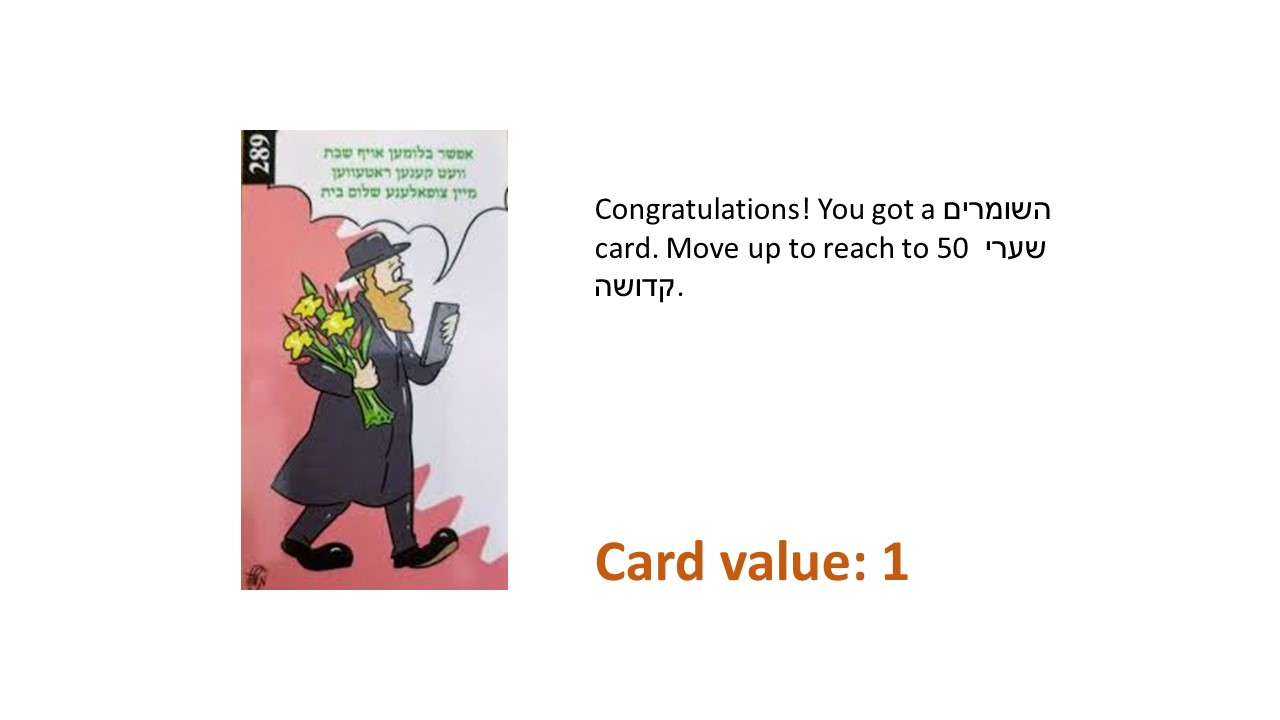
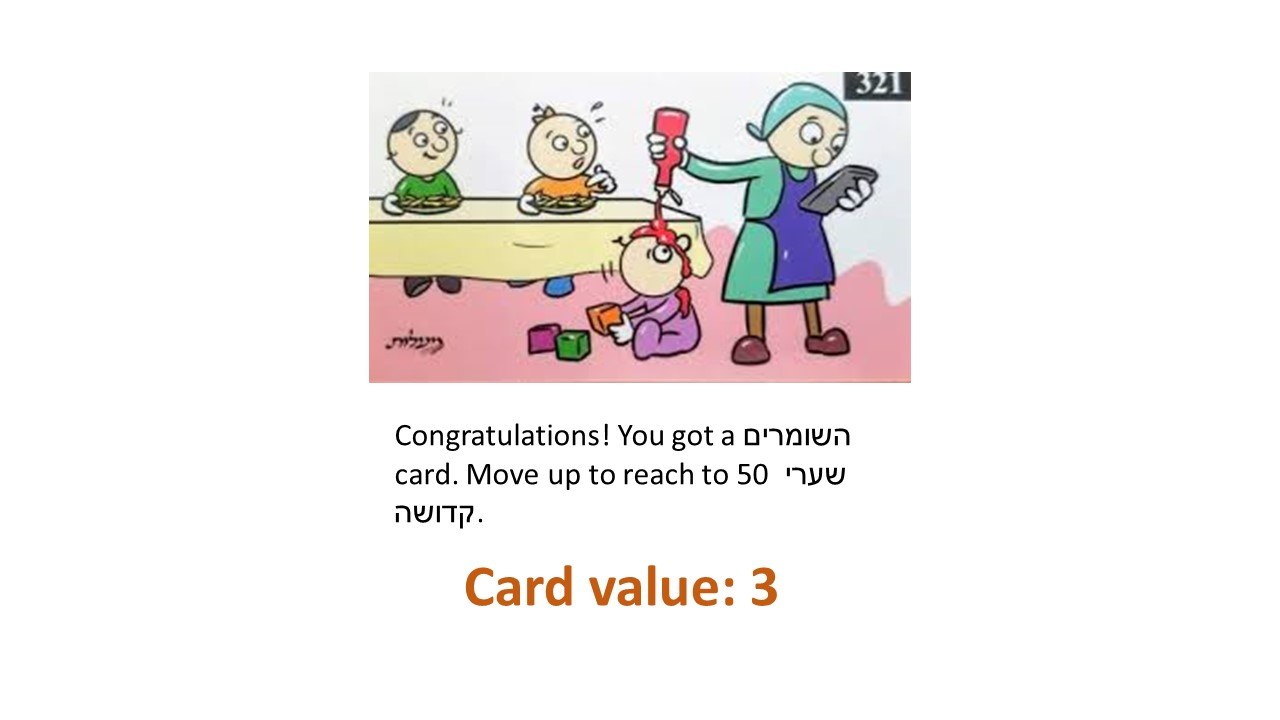
Added more cards

Changed region(s): [[0.1875, 0.0917, 0.8125, 0.8556]]

diff --git a/BeatTheStormApp/BeatTheStormApp/frmBeatTheStorm.cs b/BeatTheStormApp/BeatTheStormApp/frmBeatTheStorm.cs
@@ -26,12 +26,14 @@ namespace BeatTheStormApp
         List<RadioButton> optbtns = new();
         //List<string> lstcards;
         List<Dictionary<string, string>> dctcards;
+        bool checkedhandled = false;
         public frmBeatTheStorm()
         {
             InitializeComponent();
             btnStart.Click += BtnStart_Click;
             lblDiceValCurrent.Click += LblDiceValCurrent_Click;
             btnHelp.Click += BtnHelp_Click;
+            btnRestart.Click += BtnRestart_Click;
             foreach (Control c in tblMain.Controls)
             {
                 foreach (Control ctrl in c.Controls)
@@ -71,27 +73,59 @@ namespace BeatTheStormApp
             //    "Hashomrim9",
             //    "Hashomrim10"
             //};
-            dctcards = new() { 
+            dctcards = new() {
                 new() { { "Name", "Facebook" }, { "Value", "5" } },
                 new() { { "Name", "Instagram" }, { "Value", "5" } },
                 new() { { "Name", "Twitter" }, { "Value", "5" } },
+                new() { { "Name", "Tiktok" }, { "Value", "5" } },
+                new() { { "Name", "Netflix" }, { "Value", "5" } },
+                new() { { "Name", "Twitch" }, { "Value", "5" } },
+                new() { { "Name", "Vimeo" }, { "Value", "5" } },
                 new() { { "Name", "Whatsapp" }, { "Value", "4" } },
+                new() { { "Name", "Linkedin" }, { "Value", "4" } },
                 new() { { "Name", "YouTube" }, { "Value", "3" } },
+                new() { { "Name", "Roblox" }, { "Value", "3" } },
+                new() { { "Name", "Skype" }, { "Value", "3" } },
+                new() { { "Name", "Steam" }, { "Value", "3" } },
+                new() { { "Name", "Telegram" }, { "Value", "3" } },
                 new() { { "Name", "Pinterest" }, { "Value", "3" } },
+                new() { { "Name", "Googleplay" }, { "Value", "3" } },
+                new() { { "Name", "Zoom" }, { "Value", "3" } },
                 new() { { "Name", "Bing" }, { "Value", "2" } },
                 new() { { "Name", "Google" }, { "Value", "2" } },
+                new() { { "Name", "Bbcnews" }, { "Value", "2" } },
+                new() { { "Name", "Nytimes" }, { "Value", "2" } },
                 new() { { "Name", "Gmail" }, { "Value", "1" } },
                 new() { { "Name", "Slack" }, { "Value", "1" } },
+                new() { { "Name", "Yahoomail" }, { "Value", "1" } },
+                new() { { "Name", "Outlook" }, { "Value", "1" } },
+                new() { { "Name", "Aolmail" }, { "Value", "1" } },
                 new() { { "Name", "Hashomrim1" }, { "Value", "5" } },
                 new() { { "Name", "Hashomrim2" }, { "Value", "5" } },
-                new() { { "Name", "Hashomrim3" }, { "Value", "4" } },
-                new() { { "Name", "Hashomrim4" }, { "Value", "3" } },
-                new() { { "Name", "Hashomrim5" }, { "Value", "3" } },
-                new() { { "Name", "Hashomrim6" }, { "Value", "2" } },
-                new() { { "Name", "Hashomrim7" }, { "Value", "2" } },
-                new() { { "Name", "Hashomrim8" }, { "Value", "2" } },
-                new() { { "Name", "Hashomrim9" }, { "Value", "1" } },
-                new() { { "Name", "Hashomrim10" }, { "Value", "1" } },
+                new() { { "Name", "Hashomrim3" }, { "Value", "5" } },
+                new() { { "Name", "Hashomrim4" }, { "Value", "5" } },
+                new() { { "Name", "Hashomrim5" }, { "Value", "5" } },
+                new() { { "Name", "Hashomrim6" }, { "Value", "5" } },
+                new() { { "Name", "Hashomrim7" }, { "Value", "4" } },
+                new() { { "Name", "Hashomrim8" }, { "Value", "4" } },
+                new() { { "Name", "Hashomrim9" }, { "Value", "3" } },
+                new() { { "Name", "Hashomrim10" }, { "Value", "3" } },
+                new() { { "Name", "Hashomrim11" }, { "Value", "3" } },
+                new() { { "Name", "Hashomrim12" }, { "Value", "3" } },
+                new() { { "Name", "Hashomrim13" }, { "Value", "3" } },
+                new() { { "Name", "Hashomrim14" }, { "Value", "3" } },
+                new() { { "Name", "Hashomrim15" }, { "Value", "3" } },
+                new() { { "Name", "Hashomrim16" }, { "Value", "3" } },
+                new() { { "Name", "Hashomrim17" }, { "Value", "2" } },
+                new() { { "Name", "Hashomrim18" }, { "Value", "2" } },
+                new() { { "Name", "Hashomrim19" }, { "Value", "2" } },
+                new() { { "Name", "Hashomrim20" }, { "Value", "2" } },
+                new() { { "Name", "Hashomrim21" }, { "Value", "1" } },
+                new() { { "Name", "Hashomrim22" }, { "Value", "1" } },
+                new() { { "Name", "Hashomrim23" }, { "Value", "1" } },
+                new() { { "Name", "Hashomrim24" }, { "Value", "1" } },
+                new() { { "Name", "Hashomrim25" }, { "Value", "1" } },
+                new() { { "Name", "Hashomrim26" }, { "Value", "1" } },
             };
         }
 
@@ -162,7 +196,7 @@ namespace BeatTheStormApp
                         });
                         if (!lblspots.Any(l => l.Name == newspot))
                         {
-                            if (d > 101 && d < 106 && lbl.Name != "lblSpot101")
+                            if (d > 101 && d <= 106 && lbl.Name != "lblSpot101")
                             {
                                 lblSpot101.Text += currentplayer.ToString();
                                 lbl.Text = lbl.Text.Replace(currentplayer.ToString(), "");
@@ -186,7 +220,7 @@ namespace BeatTheStormApp
                     }
                 }
             }
-            if (playermode == PlayerModeEnum.PlayAgainstComputer && player == PlayerEnum.A)
+            if (playermode == PlayerModeEnum.PlayAgainstComputer && player == PlayerEnum.A && gamestatus == GameStatusEnum.Playing)
             {
                 DoTurn();
             }
@@ -212,11 +246,35 @@ namespace BeatTheStormApp
 
         private void Opt_CheckedChanged(object? sender, EventArgs e)
         {
-            if (sender != null && gamestatus != GameStatusEnum.NotStarted)
+            if (sender != null && gamestatus == GameStatusEnum.Playing && !checkedhandled)
             {
                 RadioButton o = (RadioButton)sender;
                 o.Checked = false;
+                checkedhandled = true;
+                switch (gamemode)
+                {
+                    case GameModeEnum.DiceWithRandomCard:
+                        optModeDiceWithRandomCard.Checked = true;
+                        break;
+                    case GameModeEnum.CardOnly:
+                        optModeCardOnly.Checked = true;
+                        break;
+                    default:
+                        break;
+                }
+                switch (playermode)
+                {
+                    case PlayerModeEnum.TwoPlayers:
+                        optMultiplePlayers.Checked = true;
+                        break;
+                    case PlayerModeEnum.PlayAgainstComputer:
+                        optPlayComputer.Checked = true;
+                        break;
+                    default:
+                        break;
+                }
             }
+            checkedhandled = false;
         }
 
         private void LblDiceValCurrent_Click(object? sender, EventArgs e)
@@ -226,12 +284,22 @@ namespace BeatTheStormApp
 
         private void BtnHelp_Click(object? sender, EventArgs e)
         {
-            Form frmhelp = new();
-            TableLayoutPanel tblhelp = new() { Dock = DockStyle.Fill, ColumnCount = 1, RowCount = 1 };
-            Label lblhelp = new() { Dock = DockStyle.Fill, BackColor = Color.Aqua };
-            tblhelp.Controls.Add(lblhelp);
-            frmhelp.Controls.Add(tblhelp);
-            frmhelp.Show();
+            WebBrowser browser = new();
+            string str = Application.StartupPath + @"Images\Spec_for_Beat_the_Storm.pdf";
+            Uri uri = new(str);
+            browser.Navigate(uri, true);
+        }
+
+        private void BtnRestart_Click(object? sender, EventArgs e)
+        {
+            lblStatus.Text = "Choose playing mode and click start";
+            lblspots.ForEach(l => l.Text = "");
+            lblSpot51.Text = "AB";
+            gamestatus = GameStatusEnum.NotStarted;
+            lblDiceValCurrent.Text = "";
+            picCardCurrent.ImageLocation = null;
+            lblDiceValPrevious.Text = "";
+            picCardPrevious.ImageLocation = null;
         }
     }
 }

diff --git a/BeatTheStormApp/BeatTheStormApp/frmBeatTheStorm.Designer.cs b/BeatTheStormApp/BeatTheStormApp/frmBeatTheStorm.Designer.cs
@@ -149,6 +149,7 @@
             this.picCardCurrent = new System.Windows.Forms.PictureBox();
             this.lblDiceValCurrent = new System.Windows.Forms.Label();
             this.lblDiceValPrevious = new System.Windows.Forms.Label();
+            this.btnRestart = new System.Windows.Forms.Button();
             this.tblMain.SuspendLayout();
             this.pnlPlayers.SuspendLayout();
             this.pnlPlayingModes.SuspendLayout();
@@ -172,8 +173,9 @@
             this.tblMain.Controls.Add(this.btnStart, 3, 0);
             this.tblMain.Controls.Add(this.tblGame, 0, 2);
             this.tblMain.Controls.Add(this.lblCopyright, 0, 3);
-            this.tblMain.Controls.Add(this.btnHelp, 3, 3);
             this.tblMain.Controls.Add(this.tblCards, 4, 0);
+            this.tblMain.Controls.Add(this.btnHelp, 2, 3);
+            this.tblMain.Controls.Add(this.btnRestart, 3, 3);
             this.tblMain.Dock = System.Windows.Forms.DockStyle.Fill;
             this.tblMain.Location = new System.Drawing.Point(0, 0);
             this.tblMain.Margin = new System.Windows.Forms.Padding(4, 5, 4, 5);
@@ -1635,11 +1637,11 @@
             // 
             this.lblCopyright.AutoSize = true;
             this.lblCopyright.BackColor = System.Drawing.Color.Gainsboro;
-            this.tblMain.SetColumnSpan(this.lblCopyright, 3);
+            this.tblMain.SetColumnSpan(this.lblCopyright, 2);
             this.lblCopyright.Dock = System.Windows.Forms.DockStyle.Fill;
             this.lblCopyright.Location = new System.Drawing.Point(3, 944);
             this.lblCopyright.Name = "lblCopyright";
-            this.lblCopyright.Size = new System.Drawing.Size(1311, 106);
+            this.lblCopyright.Size = new System.Drawing.Size(872, 106);
             this.lblCopyright.TabIndex = 5;
             this.lblCopyright.Text = "© Copyright 2022 by Shmiel Minz";
             this.lblCopyright.TextAlign = System.Drawing.ContentAlignment.MiddleLeft;
@@ -1648,9 +1650,9 @@
             // 
             this.btnHelp.BackColor = System.Drawing.Color.LightGray;
             this.btnHelp.Dock = System.Windows.Forms.DockStyle.Fill;
-            this.btnHelp.Location = new System.Drawing.Point(1320, 947);
+            this.btnHelp.Location = new System.Drawing.Point(881, 947);
             this.btnHelp.Name = "btnHelp";
-            this.btnHelp.Size = new System.Drawing.Size(134, 100);
+            this.btnHelp.Size = new System.Drawing.Size(433, 100);
             this.btnHelp.TabIndex = 6;
             this.btnHelp.Text = "Help";
             this.btnHelp.UseVisualStyleBackColor = false;
@@ -1740,6 +1742,17 @@
             this.lblDiceValPrevious.Size = new System.Drawing.Size(455, 217);
             this.lblDiceValPrevious.TabIndex = 5;
             this.lblDiceValPrevious.TextAlign = System.Drawing.ContentAlignment.MiddleCenter;
+            // 
+            // btnRestart
+            // 
+            this.btnRestart.BackColor = System.Drawing.Color.RosyBrown;
+            this.btnRestart.Dock = System.Windows.Forms.DockStyle.Fill;
+            this.btnRestart.Location = new System.Drawing.Point(1320, 947);
+            this.btnRestart.Name = "btnRestart";
+            this.btnRestart.Size = new System.Drawing.Size(134, 100);
+            this.btnRestart.TabIndex = 8;
+            this.btnRestart.Text = "Restart";
+            this.btnRestart.UseVisualStyleBackColor = false;
             // 
             // frmBeatTheStorm
             // 
@@ -1891,5 +1904,6 @@
         private PictureBox picCardPrevious;
         private Label lblDiceValCurrent;
         private Label lblDiceValPrevious;
+        private Button btnRestart;
     }
 }
